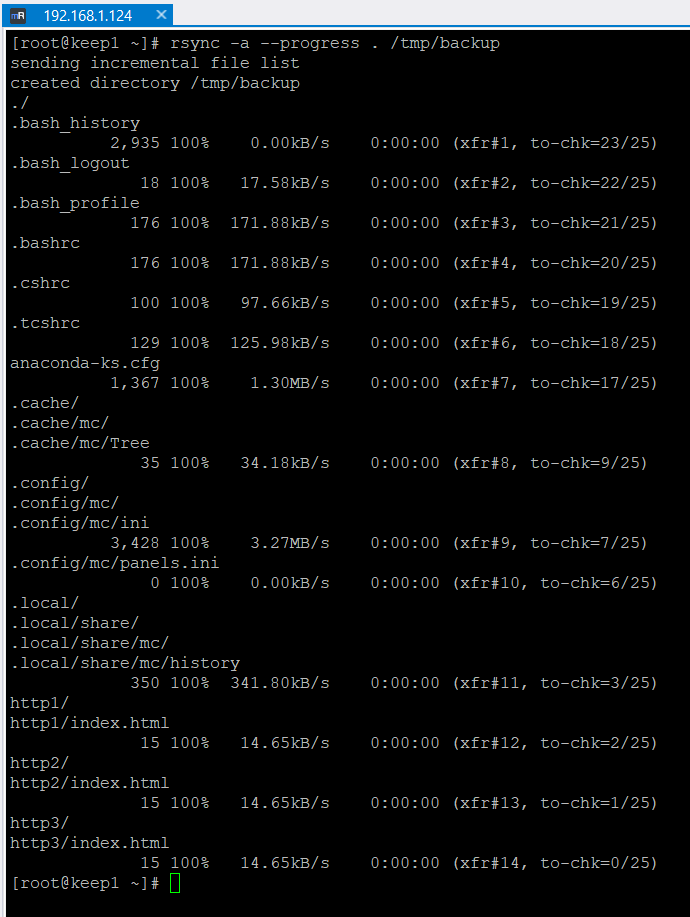
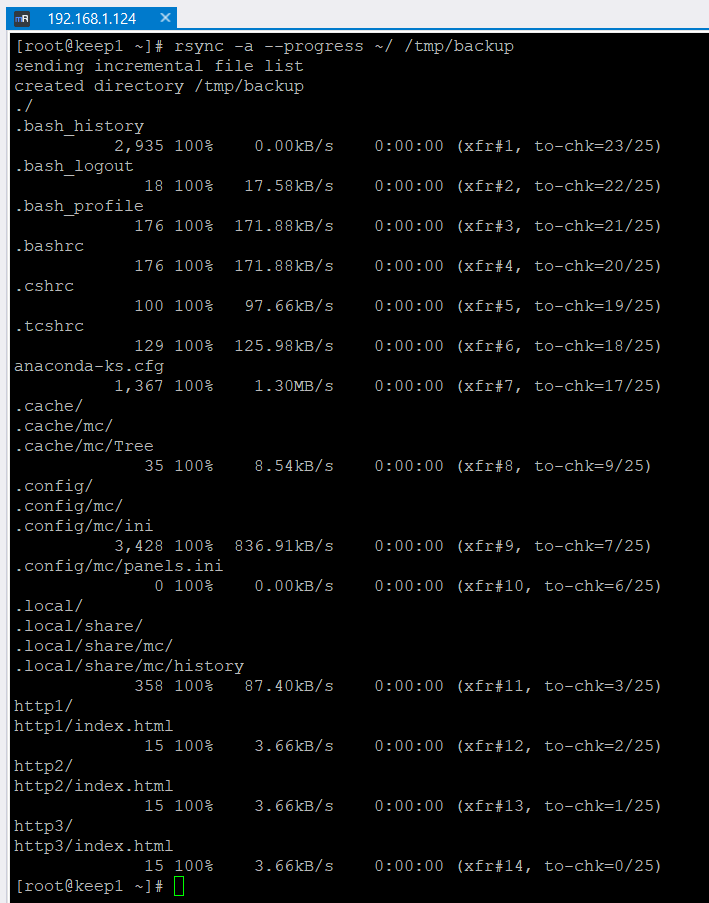
add repo

diff --git a/README.md b/README.md
@@ -12,12 +12,17 @@
 
 1. `Команда для создания зеркальной копии домашней директории пользователя в директорию /tmp/backup`
 ```
-rsync -a --progress . /tmp/backup
+rsync -a --progress ~/ /tmp/backup
 ```
 <img src = "img/001.png" width = 50%>
 
 
-2. `Заполните здесь этапы выполнения, если требуется ....`
+2. `Исключаем из синхронизации все директории, начинающиеся с точки`
+```
+rsync -a --progress --exclude='/.*' ~/ /tmp/backup
+```
+
+
 3. `Заполните здесь этапы выполнения, если требуется ....`
 4. `Заполните здесь этапы выполнения, если требуется ....`
 5. `Заполните здесь этапы выполнения, если требуется ....`
